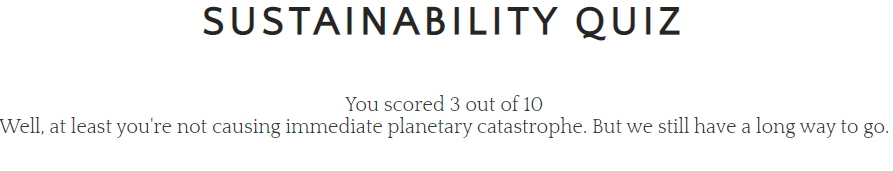
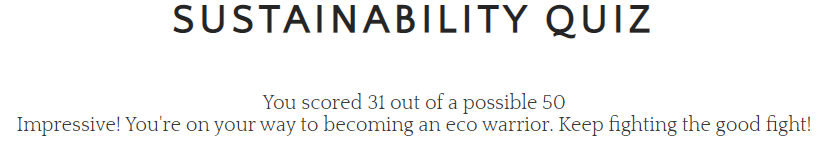
add mockup image to README

Changed region(s): [[0.0, 0.5521, 0.9976, 0.8282], [0.2116, 0.0307, 0.786, 0.2454]]

diff --git a/README.md b/README.md
@@ -1,7 +1,7 @@
 # About The Sustainable Life Quiz
 The Sustainable Life Quiz is a game fully intended to highlight users' sustainable living practices and depending on their score, encourage them to live a more sustainable life or congratulate them on living sustainably. The quiz aims to encourage individuals to think about changes they could make in their daily lives that will have a positive impact on the environment.
 ## Screenshots
-*screenshots*
+(mockup) [/assets/media/mockup]
 ## User Stories
 - As a first-time visitor, I expect to navigate through the quiz with ease and find the quiz interesting, enjoyable, and fun.
 - As a returning visitor, I expect to be able to use the quiz to see if I have improved my sustainability score.
@@ -9,7 +9,7 @@ The Sustainable Life Quiz is a game fully intended to highlight users' sustainab
 ## Design
 The quiz features a functional design. The straightforward design and generous use of white space improve the site's readability and user experience. The choice of colors and visuals is in harmony with the brand's environmentally conscious values, creating a sense of eco-friendliness.
 ### Color Scheme
-The site is designed to work alongside the Sustainable Life website ([Sustainable Life Website](https://florajenner.github.io/sustainable-life) and as such uses the same color palette. The green color palette reflects the sustainable theme of the quiz.
+The site is designed to work alongside the Sustainable Life website [Sustainable Life Website](https://florajenner.github.io/sustainable-life) and as such uses the same color palette. The green color palette reflects the sustainable theme of the quiz.
 ### Typography
 The font 'Quattrocento Sans' used for all headings and subheadings is sans-serif with clean lines, generating a minimalist and modern look for the website. The font choice for paragraphs is 'Quattrocento'. This easy-to-read font ensures readability and clarity.
 ## Features
